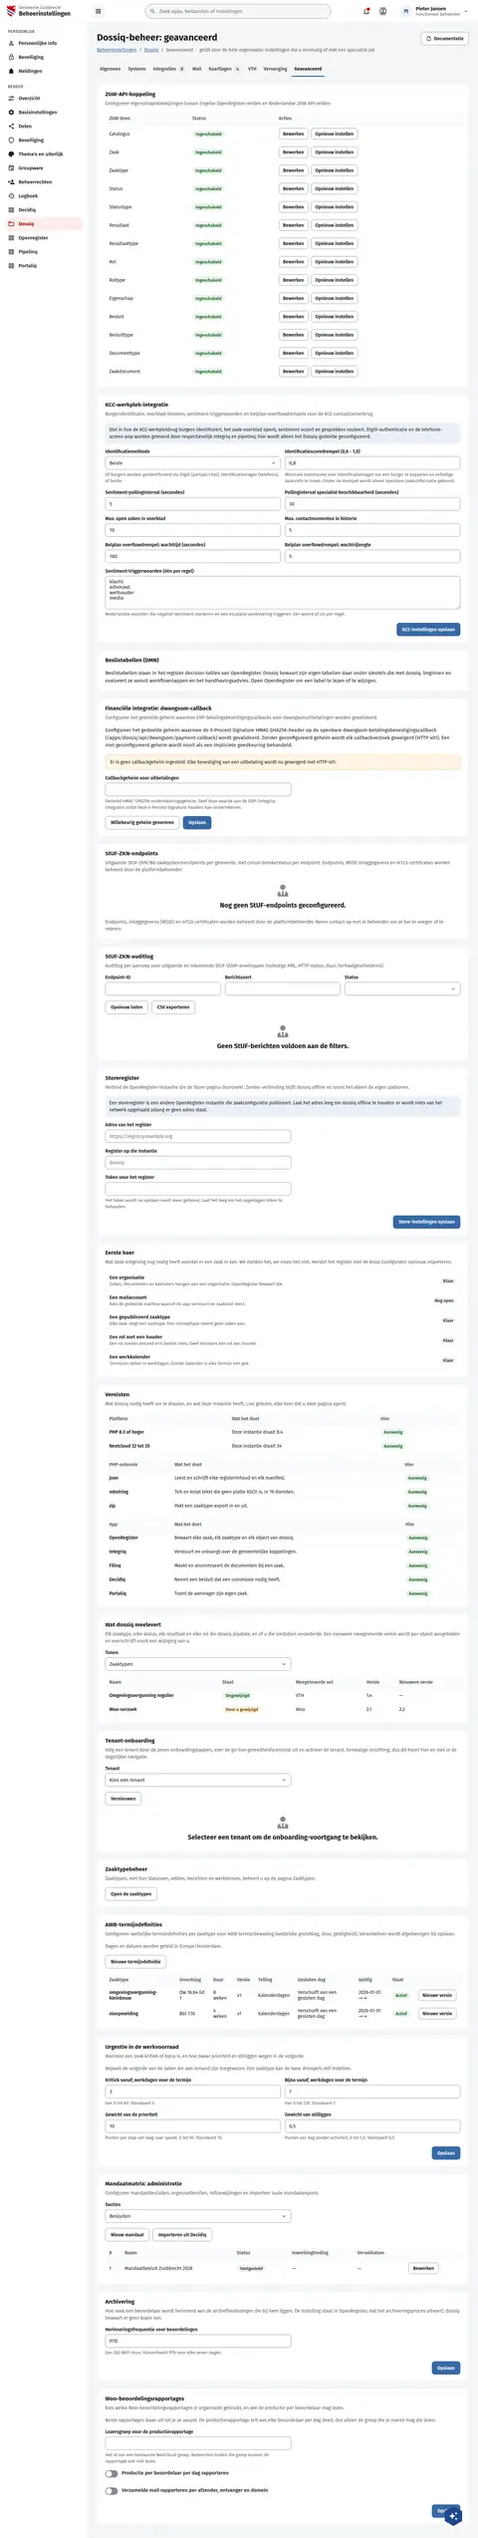
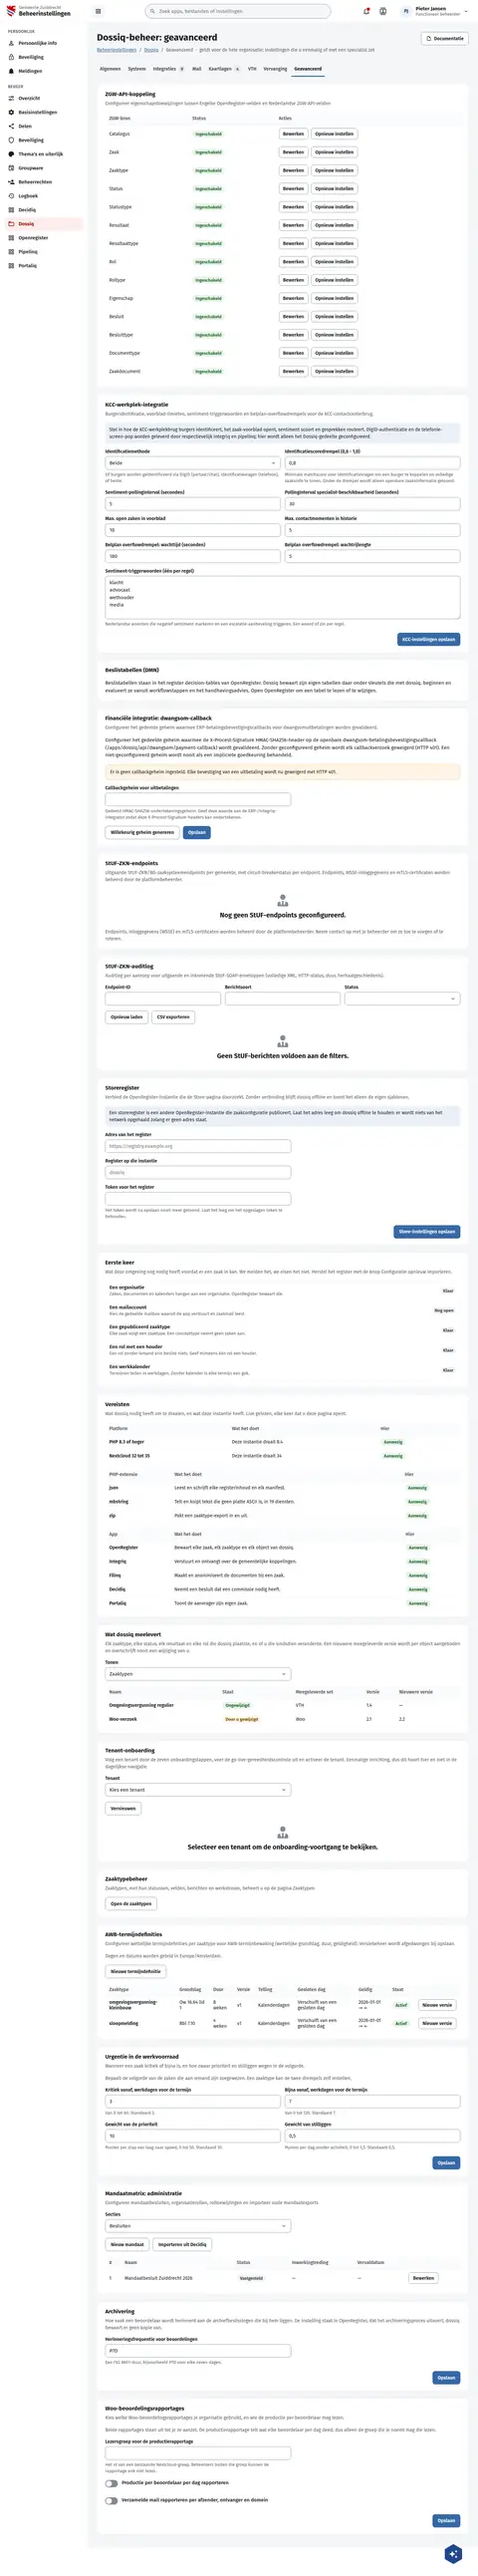
fix(screens): the settings shell's text area takes the boards' 1.5 leading
NcBeheerInstellingen drew its textarea at line-height 1.1 (DqBeheerGeavanceerd 'Sentiment-triggerwoorden' 100.5px); 56 textareas on the other boards are 1.5. Rebuilt the 3 importing boards with build.py.

Assisted-by: ClaudeCode:claude-opus-5-5

diff --git a/preview/screens/boards/DqBeheerGeavanceerd.html b/preview/screens/boards/DqBeheerGeavanceerd.html
@@ -236,7 +236,7 @@ a{color:var(--sc-primary, #3669a5)}a:hover{color:var(--sc-primary-deep, #234a78)
                 
                 
                 
-                  <div style="display: flex; flex-direction: column; gap: 6px"><span style="font-size: 14px; font-weight: 600">Sentiment-triggerwoorden (één per regel)</span><textarea aria-label="Sentiment-triggerwoorden (één per regel)" rows="5" style="box-sizing: border-box; width: 100%; padding: 8px 12px; border: 1px solid var(--sc-work-field, #828a95); border-radius: 8px; background: #ffffff; font: 400 15px var(--sc-font, 'Fira Sans'), sans-serif; line-height: 1.1; color: var(--sc-work-ink, #1b1c1d); resize: vertical">klacht
+                  <div style="display: flex; flex-direction: column; gap: 6px"><span style="font-size: 14px; font-weight: 600">Sentiment-triggerwoorden (één per regel)</span><textarea aria-label="Sentiment-triggerwoorden (één per regel)" rows="5" style="box-sizing: border-box; width: 100%; padding: 8px 12px; border: 1px solid var(--sc-work-field, #828a95); border-radius: 8px; background: #ffffff; font: 400 15px var(--sc-font, 'Fira Sans'), sans-serif; line-height: 1.5; color: var(--sc-work-ink, #1b1c1d); resize: vertical">klacht
 advocaat
 wethouder
 media</textarea><span style="font-size: 13px; color: var(--sc-work-muted, #5e6168); line-height: 1.45">Nederlandse woorden die negatief sentiment markeren en een escalatie-aanbeveling triggeren. Eén woord of zin per regel.</span></div>
@@ -274,7 +274,7 @@ media</textarea><span style="font-size: 13px; color: var(--sc-work-muted, #5e616
                 
                 
                 
-                  <div style="display: flex; flex-wrap: wrap; gap: 10px; justify-content: flex-end"><button type="button" style="display: inline-flex; align-items: center; height: 40px; box-sizing: border-box; padding: 0 16px; border-radius: 8px; font: 600 14px var(--sc-font, 'Fira Sans'), sans-serif; white-space: nowrap; border: 1px solid var(--sc-primary, #3669a5); background: var(--sc-primary, #3669a5); color: #ffffff">KCC-instellingen opslaan</button></div>
+                  <div style="display: flex; flex-wrap: wrap; gap: 10px; justify-content: flex-end"><button type="button" style="display: inline-flex; align-items: center; height: 40px; box-sizing: border-box; padding: 0 16px; border-radius: 8px; font: 600 14px var(--sc-font, 'Fira Sans'), sans-serif; white-space: nowrap; border: 0; background: var(--sc-primary, #3669a5); color: #ffffff">KCC-instellingen opslaan</button></div>
                 
               
             </div>
@@ -400,7 +400,7 @@ media</textarea><span style="font-size: 13px; color: var(--sc-work-muted, #5e616
                 
                 
                 
-                  <div style="display: flex; flex-wrap: wrap; gap: 10px; "><button type="button" style="display: inline-flex; align-items: center; height: 40px; box-sizing: border-box; padding: 0 16px; border-radius: 8px; font: 600 14px var(--sc-font, 'Fira Sans'), sans-serif; white-space: nowrap; border: 1px solid var(--sc-work-field, #828a95); background: #ffffff; color: var(--sc-work-ink, #1b1c1d)">Willekeurig geheim genereren</button><button type="button" style="display: inline-flex; align-items: center; height: 40px; box-sizing: border-box; padding: 0 16px; border-radius: 8px; font: 600 14px var(--sc-font, 'Fira Sans'), sans-serif; white-space: nowrap; border: 1px solid var(--sc-primary, #3669a5); background: var(--sc-primary, #3669a5); color: #ffffff">Opslaan</button></div>
+                  <div style="display: flex; flex-wrap: wrap; gap: 10px; "><button type="button" style="display: inline-flex; align-items: center; height: 40px; box-sizing: border-box; padding: 0 16px; border-radius: 8px; font: 600 14px var(--sc-font, 'Fira Sans'), sans-serif; white-space: nowrap; border: 1px solid var(--sc-work-field, #828a95); background: #ffffff; color: var(--sc-work-ink, #1b1c1d)">Willekeurig geheim genereren</button><button type="button" style="display: inline-flex; align-items: center; height: 40px; box-sizing: border-box; padding: 0 16px; border-radius: 8px; font: 600 14px var(--sc-font, 'Fira Sans'), sans-serif; white-space: nowrap; border: 0; background: var(--sc-primary, #3669a5); color: #ffffff">Opslaan</button></div>
                 
               
             </div>
@@ -644,7 +644,7 @@ media</textarea><span style="font-size: 13px; color: var(--sc-work-muted, #5e616
                 
                 
                 
-                  <div style="display: flex; flex-wrap: wrap; gap: 10px; justify-content: flex-end"><button type="button" style="display: inline-flex; align-items: center; height: 40px; box-sizing: border-box; padding: 0 16px; border-radius: 8px; font: 600 14px var(--sc-font, 'Fira Sans'), sans-serif; white-space: nowrap; border: 1px solid var(--sc-primary, #3669a5); background: var(--sc-primary, #3669a5); color: #ffffff">Store-instellingen opslaan</button></div>
+                  <div style="display: flex; flex-wrap: wrap; gap: 10px; justify-content: flex-end"><button type="button" style="display: inline-flex; align-items: center; height: 40px; box-sizing: border-box; padding: 0 16px; border-radius: 8px; font: 600 14px var(--sc-font, 'Fira Sans'), sans-serif; white-space: nowrap; border: 0; background: var(--sc-primary, #3669a5); color: #ffffff">Store-instellingen opslaan</button></div>
                 
               
             </div>
@@ -1074,7 +1074,7 @@ media</textarea><span style="font-size: 13px; color: var(--sc-work-muted, #5e616
                 
                 
                 
-                  <div style="display: flex; flex-wrap: wrap; gap: 10px; justify-content: flex-end"><button type="button" style="display: inline-flex; align-items: center; height: 40px; box-sizing: border-box; padding: 0 16px; border-radius: 8px; font: 600 14px var(--sc-font, 'Fira Sans'), sans-serif; white-space: nowrap; border: 1px solid var(--sc-primary, #3669a5); background: var(--sc-primary, #3669a5); color: #ffffff">Opslaan</button></div>
+                  <div style="display: flex; flex-wrap: wrap; gap: 10px; justify-content: flex-end"><button type="button" style="display: inline-flex; align-items: center; height: 40px; box-sizing: border-box; padding: 0 16px; border-radius: 8px; font: 600 14px var(--sc-font, 'Fira Sans'), sans-serif; white-space: nowrap; border: 0; background: var(--sc-primary, #3669a5); color: #ffffff">Opslaan</button></div>
                 
               
             </div>
@@ -1200,7 +1200,7 @@ media</textarea><span style="font-size: 13px; color: var(--sc-work-muted, #5e616
                 
                 
                 
-                  <div style="display: flex; flex-wrap: wrap; gap: 10px; justify-content: flex-end"><button type="button" style="display: inline-flex; align-items: center; height: 40px; box-sizing: border-box; padding: 0 16px; border-radius: 8px; font: 600 14px var(--sc-font, 'Fira Sans'), sans-serif; white-space: nowrap; border: 1px solid var(--sc-primary, #3669a5); background: var(--sc-primary, #3669a5); color: #ffffff">Opslaan</button></div>
+                  <div style="display: flex; flex-wrap: wrap; gap: 10px; justify-content: flex-end"><button type="button" style="display: inline-flex; align-items: center; height: 40px; box-sizing: border-box; padding: 0 16px; border-radius: 8px; font: 600 14px var(--sc-font, 'Fira Sans'), sans-serif; white-space: nowrap; border: 0; background: var(--sc-primary, #3669a5); color: #ffffff">Opslaan</button></div>
                 
               
             </div>
@@ -1318,7 +1318,7 @@ media</textarea><span style="font-size: 13px; color: var(--sc-work-muted, #5e616
                 
                 
                 
-                  <div style="display: flex; flex-wrap: wrap; gap: 10px; justify-content: flex-end"><button type="button" style="display: inline-flex; align-items: center; height: 40px; box-sizing: border-box; padding: 0 16px; border-radius: 8px; font: 600 14px var(--sc-font, 'Fira Sans'), sans-serif; white-space: nowrap; border: 1px solid var(--sc-primary, #3669a5); background: var(--sc-primary, #3669a5); color: #ffffff">Opslaan</button></div>
+                  <div style="display: flex; flex-wrap: wrap; gap: 10px; justify-content: flex-end"><button type="button" style="display: inline-flex; align-items: center; height: 40px; box-sizing: border-box; padding: 0 16px; border-radius: 8px; font: 600 14px var(--sc-font, 'Fira Sans'), sans-serif; white-space: nowrap; border: 0; background: var(--sc-primary, #3669a5); color: #ffffff">Opslaan</button></div>
                 
               
             </div>

diff --git a/preview/screens/boards/DqBeheerinstellingen.html b/preview/screens/boards/DqBeheerinstellingen.html
@@ -197,7 +197,7 @@ a{color:var(--sc-primary, #3669a5)}a:hover{color:var(--sc-primary-deep, #234a78)
                 
                 
                 
-                  <div style="display: flex; flex-wrap: wrap; gap: 10px; justify-content: flex-end"><button type="button" style="display: inline-flex; align-items: center; height: 40px; box-sizing: border-box; padding: 0 16px; border-radius: 8px; font: 600 14px var(--sc-font, 'Fira Sans'), sans-serif; white-space: nowrap; border: 1px solid var(--sc-primary, #3669a5); background: var(--sc-primary, #3669a5); color: #ffffff">Opslaan</button></div>
+                  <div style="display: flex; flex-wrap: wrap; gap: 10px; justify-content: flex-end"><button type="button" style="display: inline-flex; align-items: center; height: 40px; box-sizing: border-box; padding: 0 16px; border-radius: 8px; font: 600 14px var(--sc-font, 'Fira Sans'), sans-serif; white-space: nowrap; border: 0; background: var(--sc-primary, #3669a5); color: #ffffff">Opslaan</button></div>
                 
               
             </div>
@@ -419,7 +419,7 @@ a{color:var(--sc-primary, #3669a5)}a:hover{color:var(--sc-primary-deep, #234a78)
                 
                 
                 
-                  <div style="display: flex; flex-wrap: wrap; gap: 10px; justify-content: flex-end"><button type="button" style="display: inline-flex; align-items: center; height: 40px; box-sizing: border-box; padding: 0 16px; border-radius: 8px; font: 600 14px var(--sc-font, 'Fira Sans'), sans-serif; white-space: nowrap; border: 1px solid var(--sc-primary, #3669a5); background: var(--sc-primary, #3669a5); color: #ffffff">Opslaan</button></div>
+                  <div style="display: flex; flex-wrap: wrap; gap: 10px; justify-content: flex-end"><button type="button" style="display: inline-flex; align-items: center; height: 40px; box-sizing: border-box; padding: 0 16px; border-radius: 8px; font: 600 14px var(--sc-font, 'Fira Sans'), sans-serif; white-space: nowrap; border: 0; background: var(--sc-primary, #3669a5); color: #ffffff">Opslaan</button></div>
                 
               
             </div>
@@ -677,7 +677,7 @@ a{color:var(--sc-primary, #3669a5)}a:hover{color:var(--sc-primary-deep, #234a78)
                 
                 
                 
-                  <div style="display: flex; flex-wrap: wrap; gap: 10px; justify-content: flex-end"><button type="button" style="display: inline-flex; align-items: center; height: 40px; box-sizing: border-box; padding: 0 16px; border-radius: 8px; font: 600 14px var(--sc-font, 'Fira Sans'), sans-serif; white-space: nowrap; border: 1px solid var(--sc-primary, #3669a5); background: var(--sc-primary, #3669a5); color: #ffffff">Opslaan</button></div>
+                  <div style="display: flex; flex-wrap: wrap; gap: 10px; justify-content: flex-end"><button type="button" style="display: inline-flex; align-items: center; height: 40px; box-sizing: border-box; padding: 0 16px; border-radius: 8px; font: 600 14px var(--sc-font, 'Fira Sans'), sans-serif; white-space: nowrap; border: 0; background: var(--sc-primary, #3669a5); color: #ffffff">Opslaan</button></div>
                 
               
             </div>

diff --git a/screens-src/zuiddrecht/NcBeheerInstellingen.dc.html b/screens-src/zuiddrecht/NcBeheerInstellingen.dc.html
@@ -43,7 +43,7 @@ a{color:#3669a5}a:hover{color:#234a78}
                   <h3 style="margin: 0; font-size: 16px; font-weight: 600; line-height: 1.3">{{ r.text }}</h3>
                 </sc-if>
                 <sc-if value="{{ r.isArea }}">
-                  <div style="display: flex; flex-direction: column; gap: 6px"><span style="font-size: 14px; font-weight: 600">{{ r.label }}</span><textarea aria-label="{{ r.label }}" rows="{{ r.rows }}" style="box-sizing: border-box; width: 100%; padding: 8px 12px; border: 1px solid #828a95; border-radius: 8px; background: #ffffff; font: 400 15px 'Fira Sans', sans-serif; line-height: 1.1; color: #1b1c1d; resize: vertical">{{ r.value }}</textarea><sc-if value="{{ r.hasHint }}"><span style="font-size: 13px; color: #5e6168; line-height: 1.45">{{ r.hint }}</span></sc-if></div>
+                  <div style="display: flex; flex-direction: column; gap: 6px"><span style="font-size: 14px; font-weight: 600">{{ r.label }}</span><textarea aria-label="{{ r.label }}" rows="{{ r.rows }}" style="box-sizing: border-box; width: 100%; padding: 8px 12px; border: 1px solid #828a95; border-radius: 8px; background: #ffffff; font: 400 15px 'Fira Sans', sans-serif; line-height: 1.5; color: #1b1c1d; resize: vertical">{{ r.value }}</textarea><sc-if value="{{ r.hasHint }}"><span style="font-size: 13px; color: #5e6168; line-height: 1.45">{{ r.hint }}</span></sc-if></div>
                 </sc-if>
                 <sc-if value="{{ r.isText }}">
                   <div style="display: flex; flex-direction: column; gap: 6px; max-width: 560px"><span style="font-size: 14px; font-weight: 600">{{ r.label }}</span><div style="display: flex; gap: 8px"><input type="text" aria-label="{{ r.label }}" value="{{ r.value }}" placeholder="{{ r.placeholder }}" style="flex: 1 1 auto; min-width: 0; box-sizing: border-box; height: 40px; padding: 0 12px; border: 1px solid #828a95; border-radius: 8px; background: #ffffff; font: 400 15px 'Fira Sans', sans-serif; color: #1b1c1d"><sc-if value="{{ r.hasAction }}"><button type="button" style="flex: none; display: inline-flex; align-items: center; height: 40px; box-sizing: border-box; padding: 0 14px; border: 1px solid #828a95; border-radius: 8px; background: #ffffff; font: 600 14px 'Fira Sans', sans-serif; color: #1b1c1d; white-space: nowrap">{{ r.action }}</button></sc-if></div><sc-if value="{{ r.hasHint }}"><span style="font-size: 13px; color: #5e6168; line-height: 1.45">{{ r.hint }}</span></sc-if></div>

diff --git a/preview/screens/boards/LrBeheerinstellingen.html b/preview/screens/boards/LrBeheerinstellingen.html
@@ -357,7 +357,7 @@ a{color:var(--sc-primary, #3669a5)}a:hover{color:var(--sc-primary-deep, #234a78)
                 
                 
                 
-                  <div style="display: flex; flex-wrap: wrap; gap: 10px; justify-content: flex-end"><button type="button" style="display: inline-flex; align-items: center; height: 40px; box-sizing: border-box; padding: 0 16px; border-radius: 8px; font: 600 14px var(--sc-font, 'Fira Sans'), sans-serif; white-space: nowrap; border: 1px solid var(--sc-primary, #3669a5); background: var(--sc-primary, #3669a5); color: #ffffff">Alles opslaan</button></div>
+                  <div style="display: flex; flex-wrap: wrap; gap: 10px; justify-content: flex-end"><button type="button" style="display: inline-flex; align-items: center; height: 40px; box-sizing: border-box; padding: 0 16px; border-radius: 8px; font: 600 14px var(--sc-font, 'Fira Sans'), sans-serif; white-space: nowrap; border: 0; background: var(--sc-primary, #3669a5); color: #ffffff">Alles opslaan</button></div>
                 
               
             </div>
